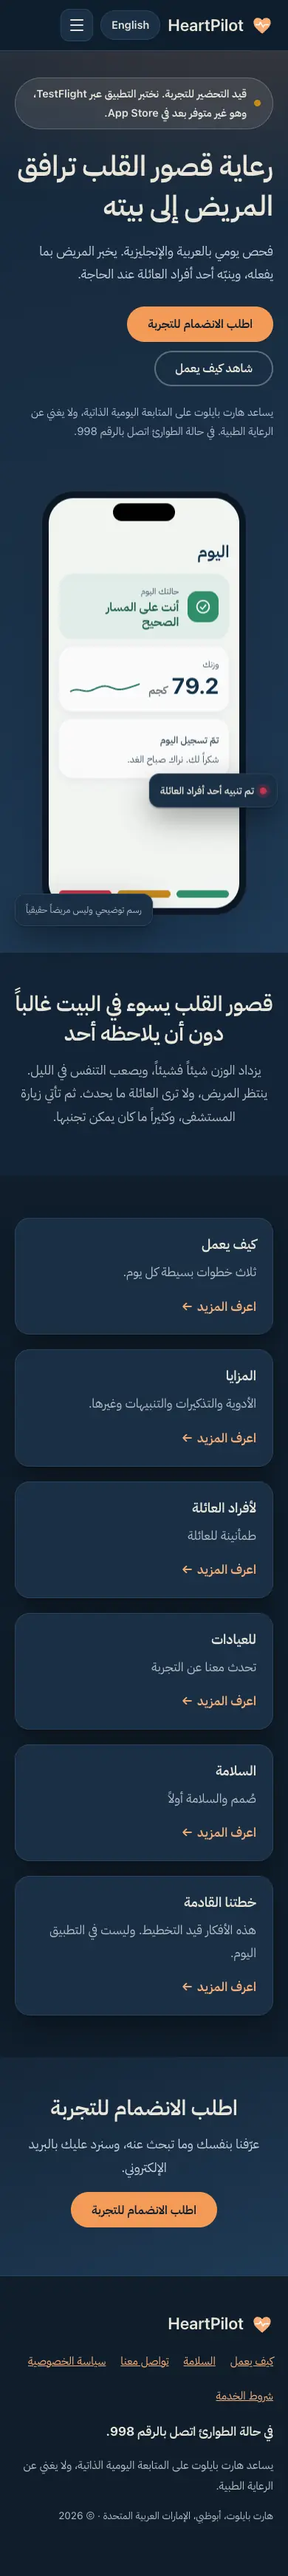
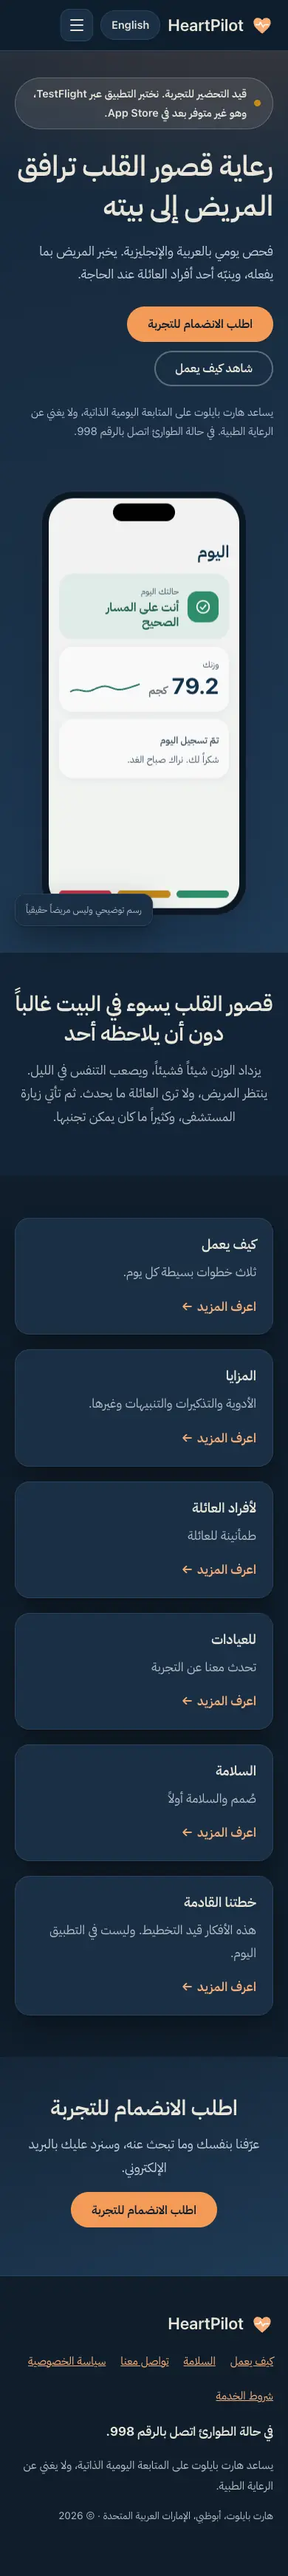
Remove the Caregiver alerted chip from the green hero mockup

Changed region(s): [[0.4923, 0.2812, 0.8615, 0.3438], [0.8923, 0.2812, 0.9231, 0.3125]]

diff --git a/index.html b/index.html
@@ -58,7 +58,7 @@
 <div class="s-card s-done"><b><span data-l="en">Check-in done</span><span data-l="ar" lang="ar">تمّ تسجيل اليوم</span></b><span><span data-l="en">Thank you. See you tomorrow morning.</span><span data-l="ar" lang="ar">شكراً لك. نراك صباح الغد.</span></span></div>
 <div class="s-row"><span class="chip c-g"></span><span class="chip c-a"></span><span class="chip c-r"></span></div>
 </div></div>
-<div class="float f1" aria-hidden="true"><span class="dot dot-r"></span><span data-l="en">Caregiver alerted</span><span data-l="ar" lang="ar">تم تنبيه أحد أفراد العائلة</span></div>
+
 <div class="float f2" aria-hidden="true"><span data-l="en">Illustration, not a real patient</span><span data-l="ar" lang="ar">رسم توضيحي وليس مريضاً حقيقياً</span></div>
 </div></div></section>
 <section class="band" id="problem"><div class="wrap narrow center">

diff --git a/assets/css/styles.css b/assets/css/styles.css
@@ -97,7 +97,6 @@ p{margin:0 0 1em}
 .s-row{display:flex;gap:8px;margin-top:auto}
 .chip{flex:1;height:10px;border-radius:6px}.c-g{background:var(--g)}.c-a{background:var(--a)}.c-r{background:var(--r)}
 .float{position:absolute;display:flex;align-items:center;gap:8px;background:var(--surface);color:var(--ink);border:1px solid var(--line);box-shadow:var(--shadow);border-radius:14px;padding:10px 14px;font-size:.84rem;font-weight:600}
-.f1{inset-inline-start:-6px;bottom:26%;animation:bob 6s ease-in-out infinite}
 .f2{inset-inline-end:0;bottom:-4px;font-weight:500;color:var(--muted);font-size:.76rem}
 /* sections */
 section{padding:clamp(56px,9vw,104px) 0}

diff --git a/docs/arabic-review.md b/docs/arabic-review.md
@@ -39,90 +39,89 @@ Two lines need a decision, not just a review:
 | 24 | Hero | kg | كجم | |
 | 25 | Hero | Check-in done | تمّ تسجيل اليوم | |
 | 26 | Hero | Thank you. See you tomorrow morning. | شكراً لك. نراك صباح الغد. | |
-| 27 | Hero | Caregiver alerted | تم تنبيه أحد أفراد العائلة | |
-| 28 | Hero | Illustration, not a real patient | رسم توضيحي وليس مريضاً حقيقياً | |
-| 29 | The problem | Heart failure often gets worse at home, unnoticed | قصور القلب يسوء في البيت غالباً دون أن يلاحظه أحد | |
-| 30 | The problem | Weight creeps up. Breathing gets harder at night. Patients wait, and families cannot see it. Then a visit to hospital that could often have been avoided. | يزداد الوزن شيئاً فشيئاً، ويصعب التنفس في الليل. ينتظر المريض، ولا ترى العائلة ما يحدث. ثم تأتي زيارة المستشفى، وكثيراً ما كان يمكن تجنبها. | |
-| 31 | How it works | Three simple steps, every day. | ثلاث خطوات بسيطة كل يوم. | |
-| 32 | How it works | Daily check-in | الفحص اليومي | |
-| 33 | How it works | The patient logs their weight, how they feel and their medicines. It takes a minute. | يسجّل المريض وزنه وشعوره وأدويته. يستغرق ذلك دقيقة واحدة. | |
-| 34 | How it works | Clear guidance | إرشاد واضح | |
-| 35 | How it works | The app answers with green, amber or red, and says what to do next. In an emergency it says to call 998. | يجيب التطبيق بالأخضر أو البرتقالي أو الأحمر، ويقول ما يجب فعله بعد ذلك. وفي الطوارئ يطلب الاتصال بالرقم 998. | |
-| 36 | How it works | Family alerted | تنبيه العائلة | |
-| 37 | How it works | When it matters, a family caregiver gets an instant alert on their phone. | عندما يستدعي الأمر ذلك، يصل أحد أفراد العائلة تنبيه فوري على هاتفه. | |
-| 38 | Features | Medication tracking | متابعة الأدوية | |
-| 39 | Features | Doses, times and reminders in one place. | الجرعات والمواعيد والتذكيرات في مكان واحد. | |
-| 40 | Features | Red flag guidance | إرشاد عند علامات الخطر | |
-| 41 | Features | Simple advice that changes with the symptoms. | نصيحة بسيطة تتغير بحسب الأعراض. | |
-| 42 | Features | Caregiver alerts | تنبيهات لأفراد العائلة | |
-| 43 | Features | A family member is told when it matters. | يُبلَّغ أحد أفراد العائلة عندما يستدعي الأمر ذلك. | |
-| 44 | Features | Quiet patient alerts | تنبيه عند الانقطاع | |
-| 45 | Features | If check-ins stop, the caregiver can be told. | إذا توقفت التسجيلات، يمكن إبلاغ أحد أفراد العائلة. | |
-| 46 | Features | Appointment and test reminders | تذكير بالمواعيد والفحوصات | |
-| 47 | Features | Never lose track of the next visit. | لا تفوّت موعد الزيارة القادمة. | |
-| 48 | Features | Wellbeing check | فحص الحالة النفسية | |
-| 49 | Features | A short, gentle check on how you are feeling. | أسئلة قصيرة ولطيفة عن شعورك. | |
-| 50 | Features | Education library | مكتبة التثقيف | |
-| 51 | Features | Clear articles, reviewed by a cardiologist. | مقالات واضحة راجعها طبيب قلب. | |
-| 52 | Features | Apple Health | تطبيق الصحة من Apple | |
-| 53 | Features | Bring in readings from the Health app. | أضف القراءات من تطبيق الصحة. | |
-| 54 | Features | English and Arabic | العربية والإنجليزية | |
-| 55 | Features | The whole app, in both languages. | التطبيق كله بلغتين. | |
-| 56 | Features | What is inside | ما الذي يقدمه التطبيق | |
-| 57 | For caregivers | Peace of mind for the family | طمأنينة للعائلة | |
-| 58 | For caregivers | You do not need to call every hour to ask how they are. If something needs attention, you will know. | لا حاجة لأن تتصل كل ساعة لتسأل عن حاله. وإذا احتاج أمر ما إلى انتباه، ستعرف. | |
-| 59 | For caregivers | The patient chooses who to invite, and can remove a caregiver at any time. The caregiver loses access straight away. | المريض هو من يختار من يدعوه، ويمكنه إزالة أي شخص في أي وقت. ويفقد الشخص إمكانية الوصول فوراً. | |
-| 60 | For caregivers | What a caregiver sees | ما يراه أحد أفراد العائلة | |
-| 61 | For caregivers | The daily check-ins, including weight and symptoms | التسجيلات اليومية، ومنها الوزن والأعراض | |
-| 62 | For caregivers | The medicines and whether doses were taken | الأدوية، وهل أُخذت الجرعات | |
-| 63 | For caregivers | An alert when something needs attention | تنبيهاً عندما يحتاج أمر إلى انتباه | |
-| 64 | For caregivers | What a caregiver does not see | ما لا يراه | |
-| 65 | For caregivers | The patient’s answers to the wellbeing check | إجابات المريض عن فحص الحالة النفسية | |
-| 66 | For caregivers | Anything before the patient accepts the invite | أي شيء قبل أن يوافق المريض على الدعوة | |
-| 67 | Clinically led | Clinically led | بإشراف طبي | |
-| 68 | Clinically led | Clinical content reviewed by Prof. Dr. Samer Ellahham, cardiologist. | المحتوى الطبي راجعه Prof. Dr. Samer Ellahham، استشاري أمراض القلب. | |
-| 69 | Clinically led | Profile to follow. | النبذة التعريفية ستُضاف قريباً. | |
-| 70 | For clinics and hospitals | For clinics and hospitals | للعيادات والمستشفيات | |
-| 71 | For clinics and hospitals | We are preparing a pilot programme and would like to talk to heart failure teams. | نحضّر لبرنامج تجريبي، ونود التحدث مع فرق رعاية قصور القلب. | |
-| 72 | For clinics and hospitals | Talk to us about a pilot | تحدث معنا عن التجربة | |
-| 73 | For clinics and hospitals | What a pilot involves | ماذا تشمل التجربة | |
-| 74 | For clinics and hospitals | A small group of patients and their families | مجموعة صغيرة من المرضى وعائلاتهم | |
-| 75 | For clinics and hospitals | Your team and ours agree the goals first | نتفق مع فريقكم على الأهداف أولاً | |
-| 76 | For clinics and hospitals | We listen, learn and improve the app together | نستمع ونتعلم ونحسّن التطبيق معاً | |
-| 77 | Safety and privacy | Built with safety first | صُمم والسلامة أولاً | |
-| 78 | Safety and privacy | Patients and caregivers can delete their account inside the app. Data is handled under our published Privacy Policy. | يمكن للمريض ولأفراد العائلة حذف حسابهم من داخل التطبيق. وتُعالج البيانات وفق سياسة الخصوصية المنشورة. | |
-| 79 | Safety and privacy | Privacy Policy | سياسة الخصوصية | |
-| 80 | Safety and privacy | Terms of Service | شروط الخدمة | |
-| 81 | Roadmap (Coming next) | Coming next | قريباً | |
-| 82 | Roadmap (Coming next) | These are in planning. They are not in the app today. | هذه الأفكار قيد التخطيط. وليست في التطبيق اليوم. | |
-| 83 | Roadmap (Coming next) | AI nutrition coach for heart failure | مدرّب تغذية بالذكاء الاصطناعي لقصور القلب | |
-| 84 | Roadmap (Coming next) | Built around Gulf food. It would rate the salt in a meal, suggest a low salt plan for the week from what you already have at home, and list anything you are missing. | مبني على المأكولات الخليجية. يقيّم الملح في الوجبة، ويقترح خطة أسبوعية قليلة الملح مما لديك في البيت، ويعدّد ما ينقصك. | |
-| 85 | Roadmap (Coming next) | Weekly summaries for caregivers | ملخصات أسبوعية لأفراد العائلة | |
-| 86 | Roadmap (Coming next) | A short weekly note, so families can see how the week went. | رسالة أسبوعية قصيرة ليعرف أفراد العائلة كيف مضى الأسبوع. | |
-| 87 | Contact | Tell us who you are and what you are looking for. We will reply by email. | عرّفنا بنفسك وما تبحث عنه، وسنرد عليك بالبريد الإلكتروني. | |
-| 88 | Contact | Email us | راسلنا بالبريد | |
-| 89 | Contact | Press and programme partners are welcome to write to the same address. | يمكن للصحافة وشركاء البرامج مراسلتنا على العنوان نفسه. | |
-| 90 | Footer | In an emergency call 998. | في حالة الطوارئ اتصل بالرقم 998. | |
-| 91 | Footer | HeartPilot supports daily self-management and does not replace medical care. | يساعد هارت بايلوت على المتابعة اليومية الذاتية، ولا يغني عن الرعاية الطبية. | |
-| 92 | Footer | HeartPilot, Abu Dhabi, UAE | هارت بايلوت، أبوظبي، الإمارات العربية المتحدة | |
-| 93 | Page title and description (browser tab, search results) | HeartPilot: heart failure care that goes home with the patient | هارت بايلوت: رعاية قصور القلب ترافق المريض إلى بيته | |
-| 94 | Page title and description (browser tab, search results) | HeartPilot is a bilingual daily check-in app for people with heart failure. It tells patients what to do and alerts a family caregiver when it matters. In pilot preparation. | هارت بايلوت تطبيق للفحص اليومي لمرضى قصور القلب بالعربية والإنجليزية. يخبر المريض بما يفعله وينبّه أحد أفراد العائلة عند الحاجة. قيد التحضير للتجربة. | |
-| 95 | Explore (home page cards) | Learn more | اعرف المزيد | |
-| 96 | Explore (home page cards) | Medicines, reminders, alerts and more. | الأدوية والتذكيرات والتنبيهات وغيرها. | |
-| 97 | Page title and description (browser tab, search results) | How it works / HeartPilot | كيف يعمل / هارت بايلوت | |
-| 98 | Page title and description (browser tab, search results) | Three simple steps every day: a daily check-in, clear guidance, and an alert to a family caregiver when it matters. | ثلاث خطوات بسيطة كل يوم: فحص يومي، وإرشاد واضح، وتنبيه لأحد أفراد العائلة عند الحاجة. | |
-| 99 | Page title and description (browser tab, search results) | Features / HeartPilot | المزايا / هارت بايلوت | |
-| 100 | Page title and description (browser tab, search results) | Medication tracking, red flag guidance, caregiver alerts, reminders, a wellbeing check, an education library and Apple Health, in English and Arabic. | متابعة الأدوية، وإرشاد عند علامات الخطر، وتنبيهات العائلة، وتذكيرات، وفحص الحالة النفسية، ومكتبة تثقيف، وتطبيق الصحة من Apple، بالعربية والإنجليزية. | |
-| 101 | Page title and description (browser tab, search results) | For caregivers / HeartPilot | لأفراد العائلة / هارت بايلوت | |
-| 102 | Page title and description (browser tab, search results) | Peace of mind for the family. What a HeartPilot caregiver sees, and what they do not. | طمأنينة للعائلة. ما يراه أحد أفراد العائلة في هارت بايلوت وما لا يراه. | |
-| 103 | Page title and description (browser tab, search results) | For clinics and hospitals / HeartPilot | للعيادات والمستشفيات / هارت بايلوت | |
-| 104 | Page title and description (browser tab, search results) | We are preparing a HeartPilot pilot programme and would like to talk to heart failure teams. | نحضّر لبرنامج تجريبي لهارت بايلوت، ونود التحدث مع فرق رعاية قصور القلب. | |
-| 105 | Page title and description (browser tab, search results) | Safety and clinical oversight / HeartPilot | السلامة والإشراف الطبي / هارت بايلوت | |
-| 106 | Page title and description (browser tab, search results) | Clinical content reviewed by a cardiologist, account deletion in the app, and data handled under our published Privacy Policy. | محتوى طبي راجعه طبيب قلب، وحذف الحساب من داخل التطبيق، ومعالجة البيانات وفق سياسة الخصوصية المنشورة. | |
-| 107 | Page title and description (browser tab, search results) | Roadmap / HeartPilot | خطتنا القادمة / هارت بايلوت | |
-| 108 | Page title and description (browser tab, search results) | What is coming next for HeartPilot. These are in planning and are not in the app today. | ما سيأتي لاحقاً في هارت بايلوت. هذه الأفكار قيد التخطيط وليست في التطبيق اليوم. | |
-| 109 | Page title and description (browser tab, search results) | Contact and pilot access / HeartPilot | تواصل معنا / هارت بايلوت | |
-| 110 | Page title and description (browser tab, search results) | Request pilot access to HeartPilot by email. Press and programme partners are welcome too. | اطلب الانضمام لتجربة هارت بايلوت بالبريد الإلكتروني. نرحب أيضاً بالصحافة وشركاء البرامج. | |
-| 111 | Header | We could not find that page | لم نجد هذه الصفحة | |
-| 112 | Header | The link may be old or mistyped. | ربما الرابط قديم أو فيه خطأ. | |
-| 113 | Header | Go to the home page | العودة إلى الصفحة الرئيسية | |
+| 27 | Hero | Illustration, not a real patient | رسم توضيحي وليس مريضاً حقيقياً | |
+| 28 | The problem | Heart failure often gets worse at home, unnoticed | قصور القلب يسوء في البيت غالباً دون أن يلاحظه أحد | |
+| 29 | The problem | Weight creeps up. Breathing gets harder at night. Patients wait, and families cannot see it. Then a visit to hospital that could often have been avoided. | يزداد الوزن شيئاً فشيئاً، ويصعب التنفس في الليل. ينتظر المريض، ولا ترى العائلة ما يحدث. ثم تأتي زيارة المستشفى، وكثيراً ما كان يمكن تجنبها. | |
+| 30 | How it works | Three simple steps, every day. | ثلاث خطوات بسيطة كل يوم. | |
+| 31 | How it works | Daily check-in | الفحص اليومي | |
+| 32 | How it works | The patient logs their weight, how they feel and their medicines. It takes a minute. | يسجّل المريض وزنه وشعوره وأدويته. يستغرق ذلك دقيقة واحدة. | |
+| 33 | How it works | Clear guidance | إرشاد واضح | |
+| 34 | How it works | The app answers with green, amber or red, and says what to do next. In an emergency it says to call 998. | يجيب التطبيق بالأخضر أو البرتقالي أو الأحمر، ويقول ما يجب فعله بعد ذلك. وفي الطوارئ يطلب الاتصال بالرقم 998. | |
+| 35 | How it works | Family alerted | تنبيه العائلة | |
+| 36 | How it works | When it matters, a family caregiver gets an instant alert on their phone. | عندما يستدعي الأمر ذلك، يصل أحد أفراد العائلة تنبيه فوري على هاتفه. | |
+| 37 | Features | Medication tracking | متابعة الأدوية | |
+| 38 | Features | Doses, times and reminders in one place. | الجرعات والمواعيد والتذكيرات في مكان واحد. | |
+| 39 | Features | Red flag guidance | إرشاد عند علامات الخطر | |
+| 40 | Features | Simple advice that changes with the symptoms. | نصيحة بسيطة تتغير بحسب الأعراض. | |
+| 41 | Features | Caregiver alerts | تنبيهات لأفراد العائلة | |
+| 42 | Features | A family member is told when it matters. | يُبلَّغ أحد أفراد العائلة عندما يستدعي الأمر ذلك. | |
+| 43 | Features | Quiet patient alerts | تنبيه عند الانقطاع | |
+| 44 | Features | If check-ins stop, the caregiver can be told. | إذا توقفت التسجيلات، يمكن إبلاغ أحد أفراد العائلة. | |
+| 45 | Features | Appointment and test reminders | تذكير بالمواعيد والفحوصات | |
+| 46 | Features | Never lose track of the next visit. | لا تفوّت موعد الزيارة القادمة. | |
+| 47 | Features | Wellbeing check | فحص الحالة النفسية | |
+| 48 | Features | A short, gentle check on how you are feeling. | أسئلة قصيرة ولطيفة عن شعورك. | |
+| 49 | Features | Education library | مكتبة التثقيف | |
+| 50 | Features | Clear articles, reviewed by a cardiologist. | مقالات واضحة راجعها طبيب قلب. | |
+| 51 | Features | Apple Health | تطبيق الصحة من Apple | |
+| 52 | Features | Bring in readings from the Health app. | أضف القراءات من تطبيق الصحة. | |
+| 53 | Features | English and Arabic | العربية والإنجليزية | |
+| 54 | Features | The whole app, in both languages. | التطبيق كله بلغتين. | |
+| 55 | Features | What is inside | ما الذي يقدمه التطبيق | |
+| 56 | For caregivers | Peace of mind for the family | طمأنينة للعائلة | |
+| 57 | For caregivers | You do not need to call every hour to ask how they are. If something needs attention, you will know. | لا حاجة لأن تتصل كل ساعة لتسأل عن حاله. وإذا احتاج أمر ما إلى انتباه، ستعرف. | |
+| 58 | For caregivers | The patient chooses who to invite, and can remove a caregiver at any time. The caregiver loses access straight away. | المريض هو من يختار من يدعوه، ويمكنه إزالة أي شخص في أي وقت. ويفقد الشخص إمكانية الوصول فوراً. | |
+| 59 | For caregivers | What a caregiver sees | ما يراه أحد أفراد العائلة | |
+| 60 | For caregivers | The daily check-ins, including weight and symptoms | التسجيلات اليومية، ومنها الوزن والأعراض | |
+| 61 | For caregivers | The medicines and whether doses were taken | الأدوية، وهل أُخذت الجرعات | |
+| 62 | For caregivers | An alert when something needs attention | تنبيهاً عندما يحتاج أمر إلى انتباه | |
+| 63 | For caregivers | What a caregiver does not see | ما لا يراه | |
+| 64 | For caregivers | The patient’s answers to the wellbeing check | إجابات المريض عن فحص الحالة النفسية | |
+| 65 | For caregivers | Anything before the patient accepts the invite | أي شيء قبل أن يوافق المريض على الدعوة | |
+| 66 | Clinically led | Clinically led | بإشراف طبي | |
+| 67 | Clinically led | Clinical content reviewed by Prof. Dr. Samer Ellahham, cardiologist. | المحتوى الطبي راجعه Prof. Dr. Samer Ellahham، استشاري أمراض القلب. | |
+| 68 | Clinically led | Profile to follow. | النبذة التعريفية ستُضاف قريباً. | |
+| 69 | For clinics and hospitals | For clinics and hospitals | للعيادات والمستشفيات | |
+| 70 | For clinics and hospitals | We are preparing a pilot programme and would like to talk to heart failure teams. | نحضّر لبرنامج تجريبي، ونود التحدث مع فرق رعاية قصور القلب. | |
+| 71 | For clinics and hospitals | Talk to us about a pilot | تحدث معنا عن التجربة | |
+| 72 | For clinics and hospitals | What a pilot involves | ماذا تشمل التجربة | |
+| 73 | For clinics and hospitals | A small group of patients and their families | مجموعة صغيرة من المرضى وعائلاتهم | |
+| 74 | For clinics and hospitals | Your team and ours agree the goals first | نتفق مع فريقكم على الأهداف أولاً | |
+| 75 | For clinics and hospitals | We listen, learn and improve the app together | نستمع ونتعلم ونحسّن التطبيق معاً | |
+| 76 | Safety and privacy | Built with safety first | صُمم والسلامة أولاً | |
+| 77 | Safety and privacy | Patients and caregivers can delete their account inside the app. Data is handled under our published Privacy Policy. | يمكن للمريض ولأفراد العائلة حذف حسابهم من داخل التطبيق. وتُعالج البيانات وفق سياسة الخصوصية المنشورة. | |
+| 78 | Safety and privacy | Privacy Policy | سياسة الخصوصية | |
+| 79 | Safety and privacy | Terms of Service | شروط الخدمة | |
+| 80 | Roadmap (Coming next) | Coming next | قريباً | |
+| 81 | Roadmap (Coming next) | These are in planning. They are not in the app today. | هذه الأفكار قيد التخطيط. وليست في التطبيق اليوم. | |
+| 82 | Roadmap (Coming next) | AI nutrition coach for heart failure | مدرّب تغذية بالذكاء الاصطناعي لقصور القلب | |
+| 83 | Roadmap (Coming next) | Built around Gulf food. It would rate the salt in a meal, suggest a low salt plan for the week from what you already have at home, and list anything you are missing. | مبني على المأكولات الخليجية. يقيّم الملح في الوجبة، ويقترح خطة أسبوعية قليلة الملح مما لديك في البيت، ويعدّد ما ينقصك. | |
+| 84 | Roadmap (Coming next) | Weekly summaries for caregivers | ملخصات أسبوعية لأفراد العائلة | |
+| 85 | Roadmap (Coming next) | A short weekly note, so families can see how the week went. | رسالة أسبوعية قصيرة ليعرف أفراد العائلة كيف مضى الأسبوع. | |
+| 86 | Contact | Tell us who you are and what you are looking for. We will reply by email. | عرّفنا بنفسك وما تبحث عنه، وسنرد عليك بالبريد الإلكتروني. | |
+| 87 | Contact | Email us | راسلنا بالبريد | |
+| 88 | Contact | Press and programme partners are welcome to write to the same address. | يمكن للصحافة وشركاء البرامج مراسلتنا على العنوان نفسه. | |
+| 89 | Footer | In an emergency call 998. | في حالة الطوارئ اتصل بالرقم 998. | |
+| 90 | Footer | HeartPilot supports daily self-management and does not replace medical care. | يساعد هارت بايلوت على المتابعة اليومية الذاتية، ولا يغني عن الرعاية الطبية. | |
+| 91 | Footer | HeartPilot, Abu Dhabi, UAE | هارت بايلوت، أبوظبي، الإمارات العربية المتحدة | |
+| 92 | Page title and description (browser tab, search results) | HeartPilot: heart failure care that goes home with the patient | هارت بايلوت: رعاية قصور القلب ترافق المريض إلى بيته | |
+| 93 | Page title and description (browser tab, search results) | HeartPilot is a bilingual daily check-in app for people with heart failure. It tells patients what to do and alerts a family caregiver when it matters. In pilot preparation. | هارت بايلوت تطبيق للفحص اليومي لمرضى قصور القلب بالعربية والإنجليزية. يخبر المريض بما يفعله وينبّه أحد أفراد العائلة عند الحاجة. قيد التحضير للتجربة. | |
+| 94 | Explore (home page cards) | Learn more | اعرف المزيد | |
+| 95 | Explore (home page cards) | Medicines, reminders, alerts and more. | الأدوية والتذكيرات والتنبيهات وغيرها. | |
+| 96 | Page title and description (browser tab, search results) | How it works / HeartPilot | كيف يعمل / هارت بايلوت | |
+| 97 | Page title and description (browser tab, search results) | Three simple steps every day: a daily check-in, clear guidance, and an alert to a family caregiver when it matters. | ثلاث خطوات بسيطة كل يوم: فحص يومي، وإرشاد واضح، وتنبيه لأحد أفراد العائلة عند الحاجة. | |
+| 98 | Page title and description (browser tab, search results) | Features / HeartPilot | المزايا / هارت بايلوت | |
+| 99 | Page title and description (browser tab, search results) | Medication tracking, red flag guidance, caregiver alerts, reminders, a wellbeing check, an education library and Apple Health, in English and Arabic. | متابعة الأدوية، وإرشاد عند علامات الخطر، وتنبيهات العائلة، وتذكيرات، وفحص الحالة النفسية، ومكتبة تثقيف، وتطبيق الصحة من Apple، بالعربية والإنجليزية. | |
+| 100 | Page title and description (browser tab, search results) | For caregivers / HeartPilot | لأفراد العائلة / هارت بايلوت | |
+| 101 | Page title and description (browser tab, search results) | Peace of mind for the family. What a HeartPilot caregiver sees, and what they do not. | طمأنينة للعائلة. ما يراه أحد أفراد العائلة في هارت بايلوت وما لا يراه. | |
+| 102 | Page title and description (browser tab, search results) | For clinics and hospitals / HeartPilot | للعيادات والمستشفيات / هارت بايلوت | |
+| 103 | Page title and description (browser tab, search results) | We are preparing a HeartPilot pilot programme and would like to talk to heart failure teams. | نحضّر لبرنامج تجريبي لهارت بايلوت، ونود التحدث مع فرق رعاية قصور القلب. | |
+| 104 | Page title and description (browser tab, search results) | Safety and clinical oversight / HeartPilot | السلامة والإشراف الطبي / هارت بايلوت | |
+| 105 | Page title and description (browser tab, search results) | Clinical content reviewed by a cardiologist, account deletion in the app, and data handled under our published Privacy Policy. | محتوى طبي راجعه طبيب قلب، وحذف الحساب من داخل التطبيق، ومعالجة البيانات وفق سياسة الخصوصية المنشورة. | |
+| 106 | Page title and description (browser tab, search results) | Roadmap / HeartPilot | خطتنا القادمة / هارت بايلوت | |
+| 107 | Page title and description (browser tab, search results) | What is coming next for HeartPilot. These are in planning and are not in the app today. | ما سيأتي لاحقاً في هارت بايلوت. هذه الأفكار قيد التخطيط وليست في التطبيق اليوم. | |
+| 108 | Page title and description (browser tab, search results) | Contact and pilot access / HeartPilot | تواصل معنا / هارت بايلوت | |
+| 109 | Page title and description (browser tab, search results) | Request pilot access to HeartPilot by email. Press and programme partners are welcome too. | اطلب الانضمام لتجربة هارت بايلوت بالبريد الإلكتروني. نرحب أيضاً بالصحافة وشركاء البرامج. | |
+| 110 | Header | We could not find that page | لم نجد هذه الصفحة | |
+| 111 | Header | The link may be old or mistyped. | ربما الرابط قديم أو فيه خطأ. | |
+| 112 | Header | Go to the home page | العودة إلى الصفحة الرئيسية | |
